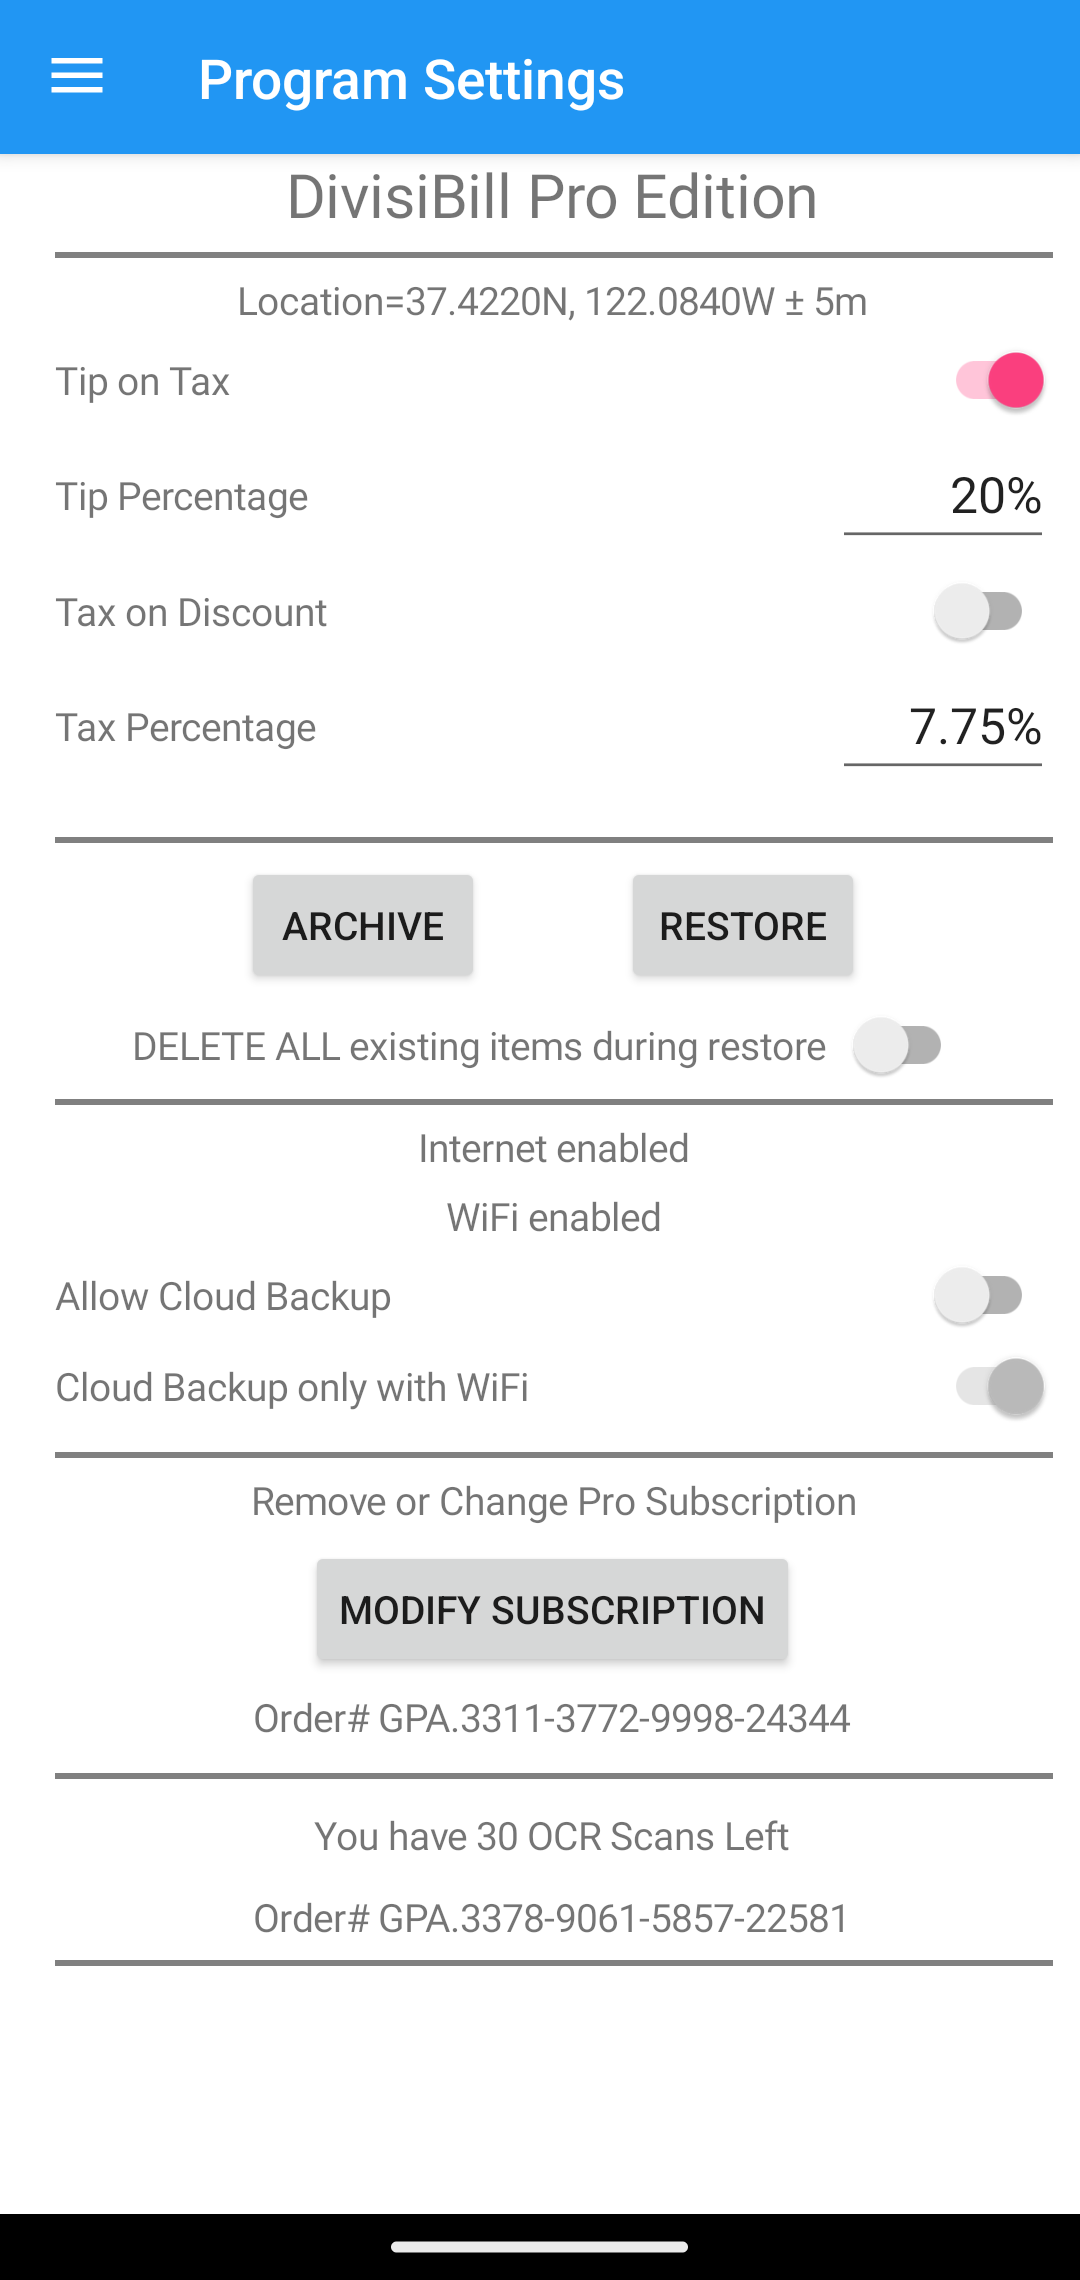
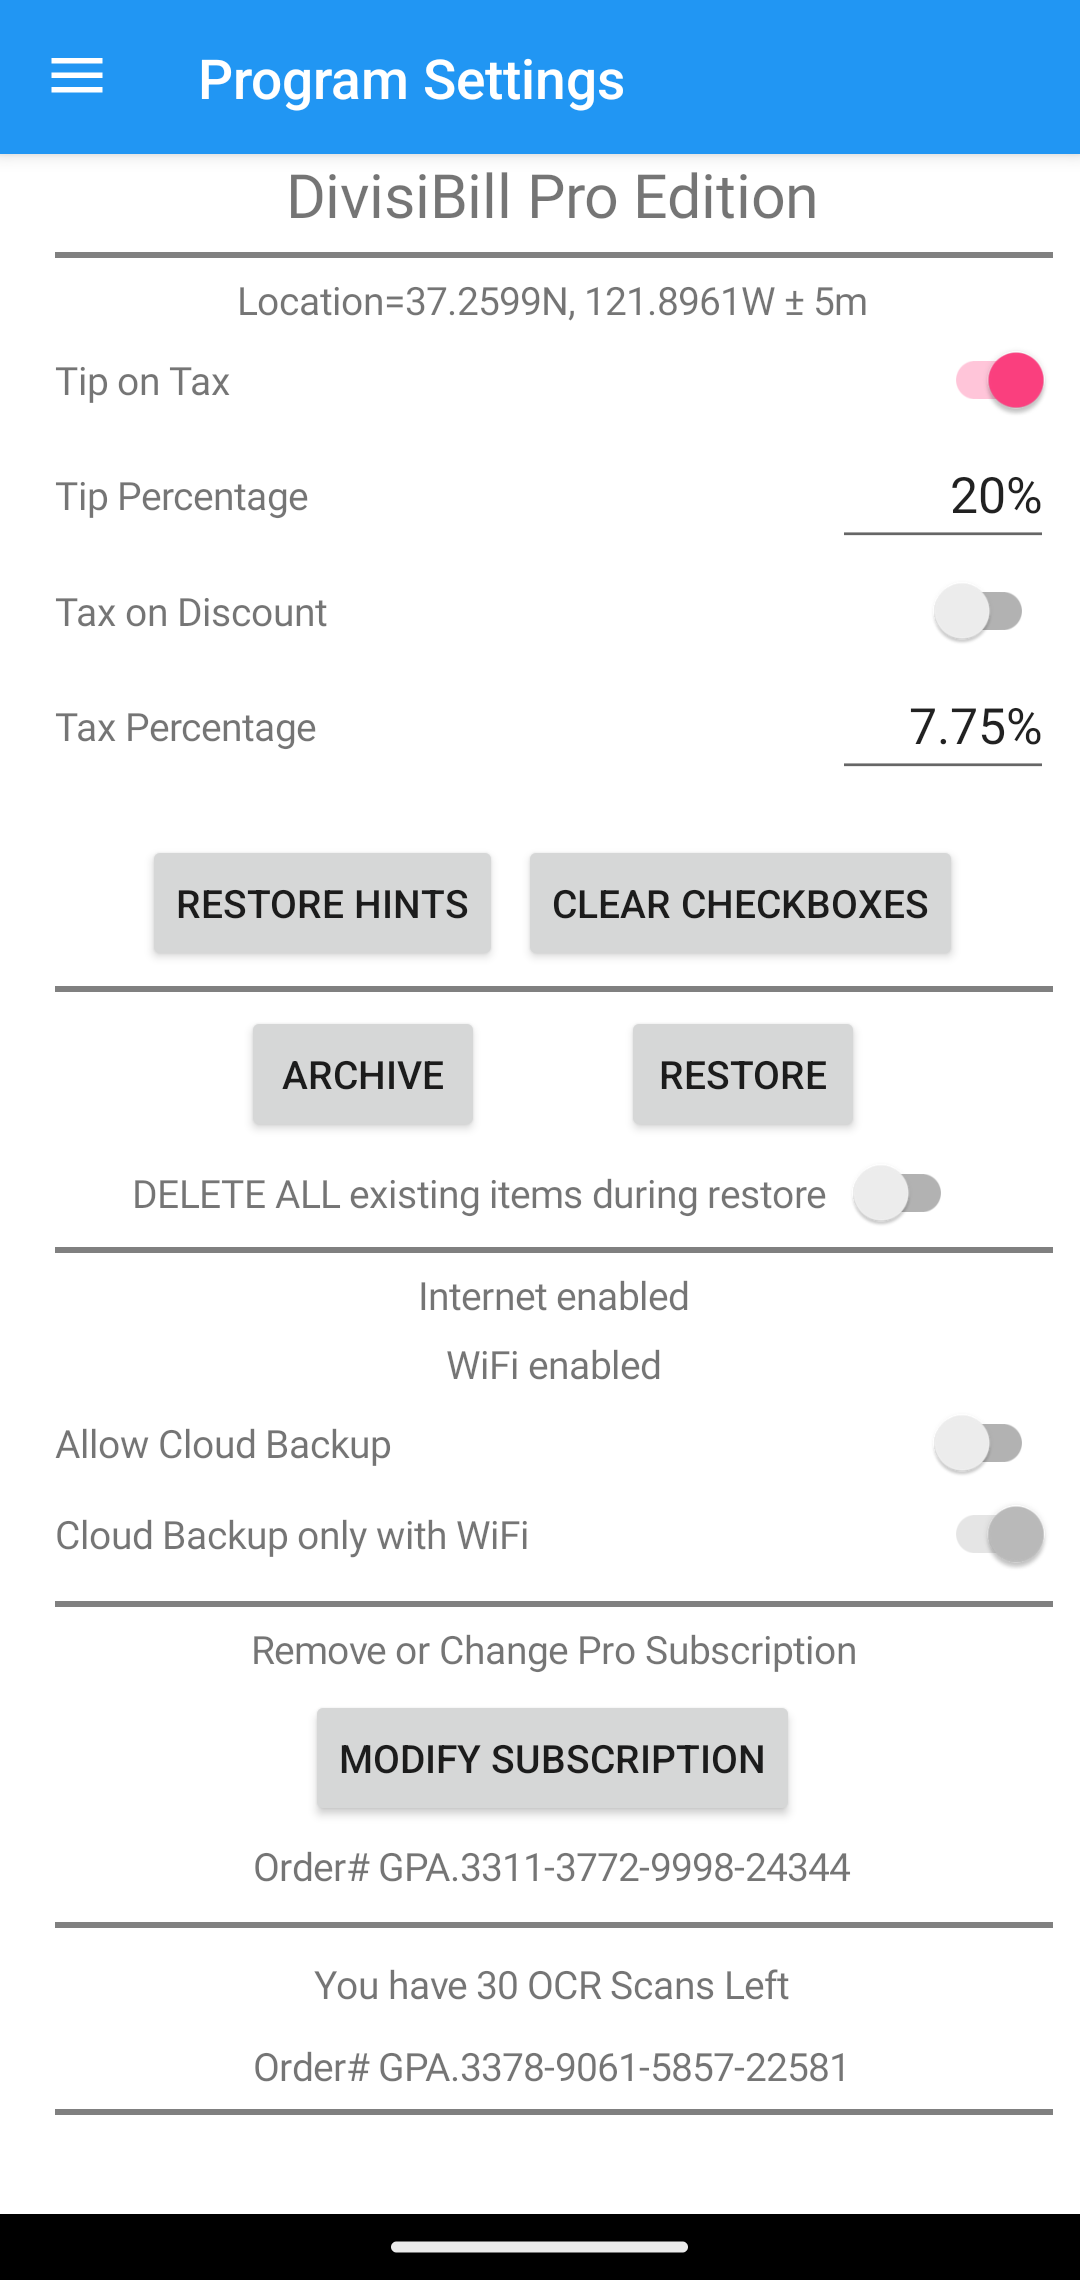
Update help to 5.3.118

diff --git a/site/divisibill/settingsglossary.html b/site/divisibill/settingsglossary.html
@@ -14,16 +14,20 @@
 <p>This shows the current latitude and longitude of the device running the program, along with the estimated accuracy of that location. This is the value that will be used for the location of any new venue you create or any venue you use that doesn't currently have a location.</p>
 <h2 id="defaults">Defaults</h2>
 <p>This area allows you to set defaults for various things used when calculating bill totals and splits. DivisiBill will warn you if the current bill is not using these defaults. This warning is especially helpful when you base a new bill on an older one and inherit old values that are no longer correct (like an incorrect tax rate).</p>
+<h2 id="restore-hints-button">Restore Hints Button</h2>
+<p>This button restores any hints hidden by selecting their &quot;Hide this hint&quot; checkboxx.</p>
+<h2 id="clear-checkboxes-button">Clear Checkboxes Button</h2>
+<p>Restores any dialogs hidden by checking their &quot;Do not ask me again&quot; checkbox (such as the crash dialog, for example).</p>
 <h2 id="archive-button">Archive Button</h2>
 <p>Press this to create an archive file containing all the Bills, Venues and People currently saved, as well as selected program defaults. A cloud storage app like Microsoft OneDrive or Google Drive lets you store archives in the cloud for free with as much or as little encryption as you like. There are also a number of free Android file management apps (<a href="https://play.google.com/store/apps/details?id=com.ghisler.android.TotalCommander">Total Commander</a>, for example) that will permit archives to be saved locally, which is fast but offers no protection against system failure.</p>
 <h2 id="restore-button">Restore Button</h2>
-<p>Press this to locate an archive previously created by the &quot;Archive&quot; button and restore its contents. If an item of the same name already exists, the archived one will be ignored. Optionally, you can elect to remove all existing items before restoring any new ones (see &quot;Delete All&quot;).</p>
+<p>Press this to locate an archive file previously created by the &quot;Archive&quot; button and restore its contents. If an item of the same name already exists, the archived one will be ignored. Optionally, you can elect to remove all existing items before restoring any new ones (see &quot;Delete All Switch&quot; below).</p>
 <h2 id="delete-all-switch">Delete All Switch</h2>
-<p>Changes the behavior of the Restore button so it removes ALL EXISTING ITEMS before restoring anything from the archive. WARNING: THIS OPTION CAN REMOVE ALL YOUR LOCAL DATA, so be sure that is what you want before setting it.</p>
+<p>Changes the behavior of the Restore button so it removes ALL EXISTING ITEMS before restoring anything from an archive file. WARNING: THIS OPTION CAN REMOVE ALL YOUR LOCAL DATA, so be sure that is what you want before setting it.</p>
 <h2 id="backup-switch">Backup Switch</h2>
-<p>If you are running the Professional Edition, this allows you to specify whether or not to automatically back up changed items to the cloud. The Basic Edition of DivisiBill cannot use cloud backup. For more details, see <a href="licensing.html">this</a> page.</p>
+<p>If you are running the Professional Edition, the &quot;Allow Cloud Backup&quot; switch allows you to specify whether or not to automatically back up changed items to the cloud. The Basic Edition of DivisiBill cannot use cloud backup but can use manual archiving instead. For more details, see <a href="licensing.html">this</a> page.</p>
 <h2 id="wifi-switch">WiFi Switch</h2>
-<p>This selection is available only in the Professional Edition. If you enable this switch, DivisiBill will perform Archive operations and automatically back up changed items and lists to the cloud only when a WiFi connection is available to minimize the use of mobile data. If cloud backup is not enabled, this switch is inactive.</p>
+<p>This selection is available only in the Professional Edition and is usable only when &quot;Allow Cloud Backup&quot; is set. If you turn on this switch, DivisiBill will automatically back up changed items to the cloud only when a WiFi connection is available to minimize the use of mobile data. If this switch is not set and cloud access is enabled, backup operations will occur whenever Internet connectivity is available.</p>
 <h2 id="modify-button">Modify Button</h2>
 <p>If you are using the Professional Edition, this button opens up a web site to permit you to view, modify or cancel that subscription.</p>
 <h2 id="subscribe">Subscribe</h2>

diff --git a/site/divisibill/gettingstarted.html b/site/divisibill/gettingstarted.html
@@ -8,7 +8,7 @@
 <body>
     <h1 id="welcome">Welcome</h1>
 <p>When you first run DivisiBill after installation, it will start by showing you this &quot;Welcome&quot; text. After you exit from the help system, DivisiBill will show the startup screen (illustrated below) which will check for the optional Professional Edition Subscription.</p>
-<p>If you want to see a quick demo of basic Divisibill operation click <a href="demo.html">here</a>.</p>
+<p>If this is your first time using DivisiBill WATCH THE QUICK DEMO <a href="demo.html">here</a>, the general model is you start from an old bill and edit it to describe a new one. DivisiBill will save the old one automatically.</p>
 <p>If you have already purchased a Professional Edition subscription, DivisiBill will show a &quot;Cloud Access&quot; pop-up to ask whether you want to enable cloud storage. Cloud storage is disabled by default, but if you already have DivisiBill data stored in the cloud, enabling it at this point will permit DivisiBill to reload your most recent lists of venues and people automatically. You can also enable cloud storage later. Once cloud storage is enabled, individual bills can be used or copied from the cloud, and stored lists of people or venues are saved automatically when they change can be downloaded.</p>
 <p>Next, DivisiBill will show a pop-up asking for permission to access to your location in order to determine if you're at a venue you previously stored. The app will work without this permission, but it will be unable to look for existing bills for your current location.</p>
 <p>After the permission dialogs, you will see the whole startup screen, which looks like this:</p>
@@ -28,6 +28,7 @@ will pay, along with details at the bottom of the page for the whole bill. Swipe
 or on the name of the venue to return to the <a href="lineitemspage.html">Items</a> page.</p>
 <p>There are many other pages in DivisiBill (see the <a href="index.html#pages">index</a>), but they all exist in support of
 these two.</p>
+<p>If there has been a previous crash a dialog will pop up (see it <a href="crashpage.html">here</a>) asking you whether you want to send it to support or not and whether you want to be asked the again should another crash happen.</p>
 <h2 id="general-user-interface-hints">General User Interface Hints</h2>
 <p>Most pages contain either a lot of individual values or lists of purchased items, participants and so on.
 You can select a page using the <a href="flyout.html">flyout menu</a> that pulls out from the left of each main page. You can also

diff --git a/site/divisibill/lineitemsglossary.html b/site/divisibill/lineitemsglossary.html
@@ -23,8 +23,8 @@
 <h2 id="venue-name">Venue Name</h2>
 <p>This is the name of the current venue. Tapping the name shows the properties (tax and tip rates, for example) of the current bill, double tapping lets you select a new venue from your list.</p>
 <h2 id="sharing-control-column">Sharing Control Column</h2>
-<p>Tap to the left of an item name to remove the share assignments for that item if there are any. If there are no shares assigned yet, tapping here will share the item in the same proportion as the rest of the bill so far. You can repeat this once the whole bill has been allocated if you want to make it more representative. Alternatively, you can designate how an item is shared manually by using the <a href="itemselected.html">buttons</a> that show up once you select the item. For &quot;comped&quot; items (ones you are not expected to pay for), only the tip is shared since the other amounts (cost and tax) are zero.</p>
 <p>This column will be blank for an unassigned item. For an item assigned to only one participant, it will contain a circled digit (1,2...8,9,0) corresponding to that participant. Items shared between multiple participants equally will show a plus sign, and those shared unequally will have an asterisk.</p>
+<p>Tap to the left of an item name to remove the share assignments for that item if there are any. If there are no shares assigned yet, tapping here will share the item in the same proportion as the rest of the bill so far. You can repeat this once the whole bill has been allocated if you want to make it more representative. Alternatively, you can designate how an item is shared manually by using the <a href="itemselected.html">buttons</a> that show up once you select the item. For &quot;comped&quot; items (ones you are not expected to pay for), only the tip is shared since the other amounts (cost and tax) are zero.</p>
 <h2 id="comp">Comp</h2>
 <p>Sometimes items will be &quot;comped&quot; by a restaurant, usually by way of an apology because something went wrong. Clicking in this column allows you to toggle the Comped status of an item, denoted by ☺ (a smiley face icon). Comped items are free, but are still considered when calculating the tip. If you don't want a comped item to contribute to the tip, just set the cost to zero, or delete the item altogether.</p>
 <h2 id="line-items">Line Items</h2>

diff --git a/site/divisibill/index.html b/site/divisibill/index.html
@@ -42,11 +42,10 @@ page. The main pages are:</p>
 <ul>
 <li>to check licensing</li>
 <li>to post analytics</li>
-<li>to upload error reports</li>
 </ul>
-<p>Otherwise it connects only when you specifically request it to (for example, in order to back up and recover files or send mail). All these activities are anonymous, though lists of people and venue names could give away information about you.</p>
+<p>Otherwise it connects only when you specifically request it to (for example, in order to back up and recover files or send mail). If a crash should occur, the next run of DivisiBill will ask you if you wish to report it. All these activities are anonymous, though lists of people and venue names could give away information about you.</p>
 <h2 id="data-deletion-policy">Data Deletion Policy</h2>
-<p>Professional Edition Subscribers may delete their cloud based data (bills and/or lists of people or venues) at any time through DivisiBill, by cancelling their subscription, or by sending an email request to <a href="mailto:support@autopl.us">DivisiBill Support</a> along with their Professional Subscription order number. Once a Professional Subscription ends (either by being cancelled or not being renewed) the corresponding cloud based data will be removed. The source of this data is anonymous though the data itself may give some clues, especially to the users location.</p>
+<p>Professional Edition Subscribers may delete their cloud based data (bills and/or lists of people or venues) at any time through DivisiBill, by cancelling their subscription, or by sending an email request to <a href="mailto:support@autopl.us">DivisiBill Support</a> along with their Professional Subscription order number (DivisiBill will add this to the mail automatically, just don't delete it). Once a Professional Subscription ends (either by being cancelled or not being renewed) the corresponding cloud based data will be removed. The source of this data is anonymous though the data itself may give some clues, especially to the users location.</p>
 
     <script>
         let li = window.location.href.lastIndexOf("#");

diff --git a/site/divisibill/crashglossary.html b/site/divisibill/crashglossary.html
@@ -1,0 +1,31 @@
+<!DOCTYPE html>
+<meta name="viewport" content="width=device-width, initial-scale=1.0">
+<html>
+<head>
+    <title>Crash Popup</title>
+    <link rel="stylesheet" href="styles.css">
+</head>
+<body>
+    <h1 id="crash-popup">Crash Popup</h1>
+<p>This is a list of the less obvious areas on the Information and Problems pages. This focuses on the &quot;About&quot; page but &quot;Release Notes&quot; and &quot;Report a Problem&quot; are selectable from the list at the bottom of the page.</p>
+<h2 id="crash-dialog">Crash Dialog</h2>
+<p>This popup explains that there has been a previous crash and allows you to elect to send it for analysis or not. If you do choose to send it you'llbe offered an opportunity to enter antything that might help the support team debug the error.</p>
+<p>In addition you may also check &quot;Do not ask me again&quot; and the same answer will be assumed for future instances of this popup, if you want to undo that you can do so from the <a href="settingsglossary.html#clear-checkboxes-button">Clear Checkboxes</a> button on the <a href="settingspage.html">Settings Page</a>.</p>
+
+    <script>
+        let li = window.location.href.lastIndexOf("#");
+        var s;
+        if (li >= 0) {
+            s = window.location.href.substring(li + 1);
+        }
+
+        if (s != null && s.length > 0) {
+            let e = document.getElementById(s);
+            if (e != null) {
+                let h = e.innerHTML;
+                e.innerHTML = "<mark>" + h + "</mark>";
+            }
+        }
+    </script>
+</body>
+</html>

diff --git a/site/divisibill/itemselectedglossary.html b/site/divisibill/itemselectedglossary.html
@@ -13,11 +13,11 @@
 <h2 id="share-selector">Share Selector</h2>
 <p>Tap the corresponding button to indicate the number of shares you would like this person to have. This area shows up only after a long press of one of the participant buttons is performed.</p>
 <h2 id="participant-1">Participant 1</h2>
-<p>A button with rounded corners indicates that Participant 1 has more than one share of the item (press and hold to see or change how many shares are allocated to them). Each participant button contains the name of the person it represents.</p>
+<p>A button with rounded corners indicates that Participant 1 (Bob in this example) has more than one share of the item (press and hold to see or change how many shares are allocated to them). Each participant button contains the name of the person it represents.</p>
 <h2 id="participant-2">Participant 2</h2>
-<p>A button with square corners indicates that Participant 2 has one share of the item.</p>
+<p>A button with square corners indicates that Participant 2 (Chris in this example) has one share of the item.</p>
 <h2 id="participant-3">Participant 3</h2>
-<p>A button with no border indicates that Participant 3 has no shares of the item.</p>
+<p>A button with no border indicates that Participant 3 (Craig in this example) has no shares of the item.</p>
 <h2 id="description">Description</h2>
 <p>This is the description of the current item. It can be arbitrarily long but for formatting purposes only the first few characters appear in the list above.</p>
 <h2 id="cost">Cost</h2>

diff --git a/site/divisibill/crashpage.html b/site/divisibill/crashpage.html
@@ -1,0 +1,30 @@
+<!DOCTYPE html>
+<meta name="viewport" content="width=device-width, initial-scale=1.0">
+<html>
+<head>
+    <title>Crash Popup</title>
+    <link rel="stylesheet" href="styles.css">
+</head>
+<body>
+    <h1 id="crash-popup">Crash Popup</h1>
+<p>This is a dialog that pops up during startup if the previous run of DivisiBill faulted.</p>
+<p><object type=image/svg+xml data="crashpage.svg" height=600 style="width:90%"></object></p>
+<p>If you elect to report the crash it will be done anonymously, your user information will not be collected but you will be given the option to enter a comment to help the support team diagnose why the application crashed.</p>
+
+    <script>
+        let li = window.location.href.lastIndexOf("#");
+        var s;
+        if (li >= 0) {
+            s = window.location.href.substring(li + 1);
+        }
+
+        if (s != null && s.length > 0) {
+            let e = document.getElementById(s);
+            if (e != null) {
+                let h = e.innerHTML;
+                e.innerHTML = "<mark>" + h + "</mark>";
+            }
+        }
+    </script>
+</body>
+</html>
